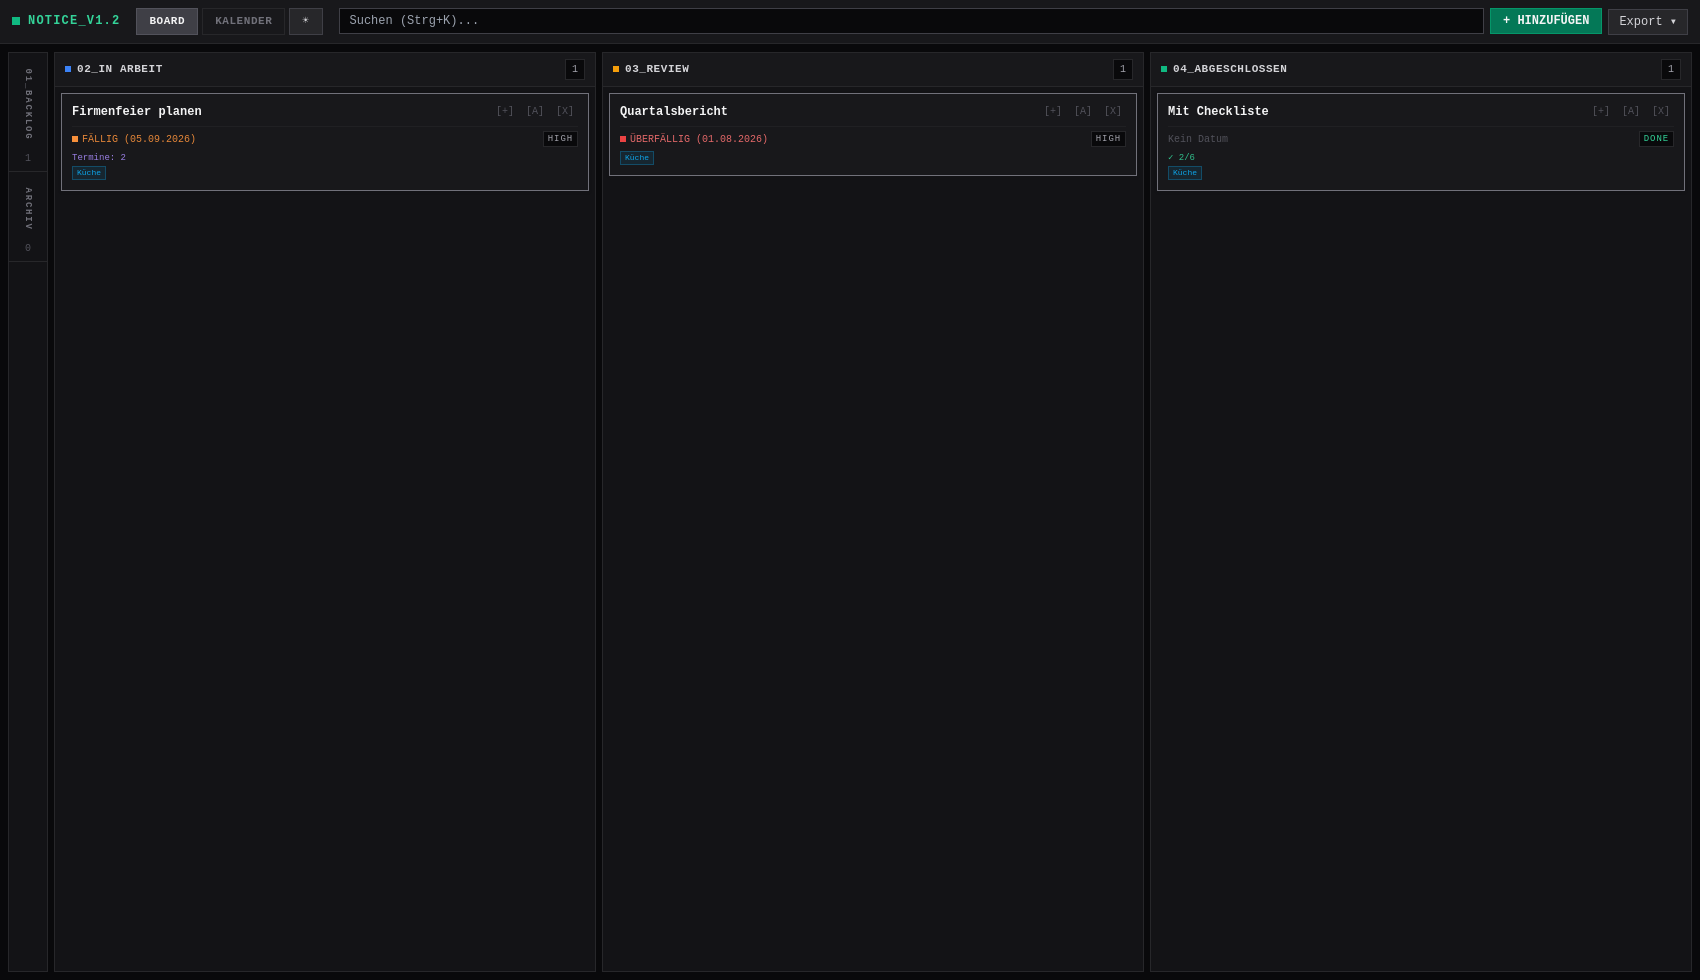
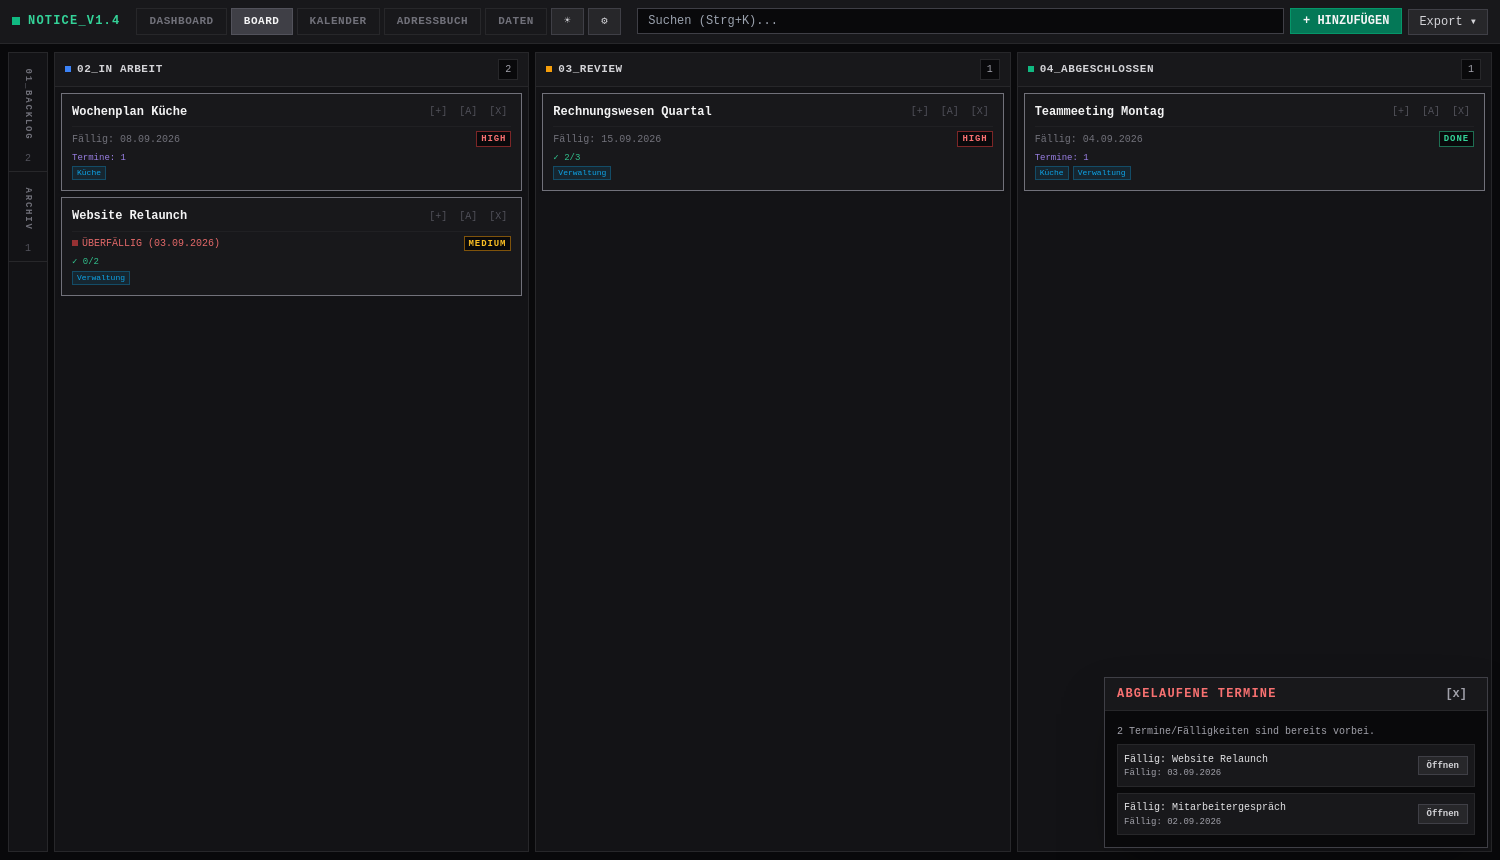
Bump version to V1.4 and refresh README and screenshots

diff --git a/src/main.rs b/src/main.rs
@@ -920,7 +920,7 @@ const FRONTEND_HTML: &str = r#"<!DOCTYPE html>
     <div id="app" class="h-screen flex flex-col" @click="closeContextMenu">
         <header class="bg-zinc-50 dark:bg-zinc-900 border-b border-zinc-200 dark:border-zinc-800 px-3 py-2 flex justify-between items-center shrink-0 gap-4">
             <h1 class="text-xs font-bold tracking-widest text-emerald-600 dark:text-emerald-400 flex items-center gap-2 shrink-0">
-                <span class="inline-block w-2 h-2 bg-emerald-500"></span> NOTICE_V1.3
+                <span class="inline-block w-2 h-2 bg-emerald-500"></span> NOTICE_V1.4
             </h1>
 
             <div class="flex gap-1 shrink-0 flex-wrap justify-center">

diff --git a/README.md b/README.md
@@ -1,5 +1,5 @@
 <p align="center">
-  <b><span style="color:#34d399">■</span> NOTICE_V1.2</b> — <i>Pro Kanban Notes</i>
+  <b><span style="color:#34d399">■</span> NOTICE_V1.4</b> — <i>Pro Kanban Notes</i>
 </p>
 
 <p align="center">
@@ -9,9 +9,13 @@
 
 ---
 
-## `// VIEWS` — Board & Calendar
+## `// VIEWS` — Dashboard, Board, Calendar, Address book
 
-Two views can be switched via the header bar (`BOARD` / `CALENDAR`).
+Several views can be switched via the header bar (`DASHBOARD` / `BOARD` / `KALENDER` / `ADRESSBUCH` / `DATEN`). The first opened view is the **Dashboard**; afterwards the chosen view is remembered.
+
+![Dashboard](screenshots/dashboard.png)
+
+**Dashboard** – default start view with statistics: today's tasks and upcoming appointments, overdue items, status & priority distribution, completed activity over the last 30 days, to-do/checklist progress and activity by department.
 
 ![Board view](screenshots/board.png)
 
@@ -20,6 +24,14 @@ Two views can be switched via the header bar (`BOARD` / `CALENDAR`).
 ![Calendar view (month)](screenshots/kalender.png)
 
 **Calendar** – Outlook-style view with `MONTH`, `WEEK` and `YEAR`. Cards with a due date appear as **blue** markers, booked **appointments** as **green**, overdue ones as **red**. Archived notes are hidden.
+
+![Address book](screenshots/addressbook.png)
+
+**Address book** (`contacts.db`) – full contact management with name, department, phone, e-mail and description. Searchable, and clicking a contact row opens an edit modal.
+
+![Data overview](screenshots/data.png)
+
+**Data overview** – central list of all departments (with note counts, deletable) and all contacts.
 
 ![Detail modal](screenshots/detail.png)
 
@@ -35,8 +47,12 @@ Two views can be switched via the header bar (`BOARD` / `CALENDAR`).
 - **Calendar** (`MONTH` / `WEEK` / `YEAR`) combines `due_date` (blue), appointments (green) and overdue (red).
 - **New-note form** (`Alt+N`): title, status, priority, due date, content (Markdown), **checklist/steps** and **appointments**.
 - **Detail modal** (double-click): all fields incl. **departments** and **appointments**, with an **edit/preview toggle**.
-- **Markdown** for the content, incl. **supported HTML colors** and **cross-linked notes** via `[[Title|Display name]]` (with autocomplete).
+- **Markdown** for the content, incl. **supported HTML colors** and **cross-linked notes**: `[[Title|Display name]]` links other notes (with autocomplete), `{{Name|Alias}}` links **contacts** from the address book (with autocomplete). Clicking a note link opens that note; clicking an address link jumps to the address book and highlights the contact.
+- **Dashboard** statistics overview (default view): today's tasks, overdue, upcoming appointments, status/priority distribution, completed activity chart, to-do progress and activity by department.
+- **Address book** (`contacts.db`): full CRUD for contacts (name, department, phone, e-mail, description), searchable, department autocomplete reuses existing departments, seeded with sample contacts on first start.
 - **Departments**: optional per note, freely creatable, **autocomplete** (most frequent first, case-insensitive deduplication). On cards the departments render as **inline wrapping badges** (single line, no emoji).
+- **Data overview** (`DATEN`): central list of all **departments** (with note counts) and **contacts**. Deleting a department removes it from every note and contact.
+- **Completed tracking**: notes store a `completed_at` date when moved to `done`/`archived` (cleared again when reactivated); it powers the Dashboard activity chart.
 - **Appointments**: any number per note, with start, optional time (`HH:MM`), optional end date and end time.
 - **Week view** is a 24-hour timeline with position/styleable event blocks; overlapping events are placed side by side in lanes; timed and all-day events are handled separately.
 - **Drag & Drop** between columns as well as for reordering within a column; notes can be dragged directly into the **archive**.
@@ -64,7 +80,7 @@ cargo run
 # → serves at http://127.0.0.1:8080
 ```
 
-On first start, `notice.db` (SQLite) is created automatically. Existing databases are migrated with `ALTER TABLE` (e.g. `departments`, `appointments`), existing data is preserved.
+On first start, `notice.db` (SQLite, notes) and `contacts.db` (SQLite, address book) are created automatically. Existing databases are migrated with `ALTER TABLE` (e.g. `departments`, `appointments`, `completed_at`), existing data is preserved.
 
 ---
 
@@ -77,8 +93,9 @@ On first start, `notice.db` (SQLite) is created automatically. Existing database
 | Open a note in the detail modal | Double-click a card |
 | Toggle edit / preview | Button `Edit` / `Preview` |
 | Save (in the modal) | `Ctrl+S` |
-| Escape | Closes the modal/form or autocomplete (removes the `[[` remnant) |
+| Escape | Closes the modal/form or autocomplete (removes the `[[` / `{{` remnant) |
 | Link a note | `[[` in the content, then pick with `↑↓`/`Enter` |
+| Link a contact | `{{` in the content, then pick with `↑↓`/`Enter` |
 
 ### Departments
 
@@ -90,6 +107,13 @@ On first start, `notice.db` (SQLite) is created automatically. Existing database
 
 - In form and modal you can create appointments with `Start`, optional `Time` (`HH:MM`), optional `End` (date) and `End time`.
 - Appointments appear as **green** calendar entries and in the card/modal list under "Appointments".
+
+### Address book / Contacts
+
+- Contacts live in a separate `contacts.db` database and are managed in the **ADRESSBUCH** view (`+ NEU` to add, click a row to edit, `[X]` to delete).
+- Each contact has a name, an optional department (with the same autocomplete as notes), phone, e-mail and description.
+- From within any note content you can link a contact with `{{Name}}` or `{{Name|Alias}}` – the rendered preview is clickable and jumps to the address book, highlighting the contact.
+- The `DATEN` view also lists all contacts and lets you delete them.
 
 ---
 
@@ -148,6 +172,16 @@ Example `POST /api/notes`:
 | Method | Path | Description |
 |---|---|---|
 | `GET` | `/api/departments` | `[{name, count}]`, sorted by frequency, case-insensitively deduplicated |
+| `POST` | `/api/departments/delete` | Body `{"name": …}` – deletes a department and removes it from every note and contact |
+
+### Contacts
+
+| Method | Path | Description |
+|---|---|---|
+| `GET` | `/api/contacts` | All contacts |
+| `POST` | `/api/contacts` | Create a contact |
+| `PUT` / `DELETE` | `/api/contacts/:id` | Update / delete a contact |
+| `GET` | `/api/contacts/search?q=…` | Search for the `{{` autocomplete |
 
 ---
 
@@ -168,14 +202,27 @@ Table `notes`:
 | `departments` | TEXT | JSON array of departments |
 | `appointments` | TEXT | JSON array of appointments |
 | `sort_order` | INTEGER | Sort order within a column |
+| `completed_at` | TEXT | Date (YYYY-MM-DD) the note was moved to `done`/`archived` (null when active) |
+
+Table `contacts` (in `contacts.db`):
+
+| Column | Type | Meaning |
+|---|---|---|
+| `id` | INTEGER (PK) | Auto ID |
+| `name` | TEXT | Full name |
+| `department` | TEXT | Optional department |
+| `phone` | TEXT | Optional phone number |
+| `email` | TEXT | Optional e-mail address |
+| `description` | TEXT | Optional notes |
 
 ---
 
 ## `// PROJECT STRUCTURE`
 
 - `src/main.rs` – the whole app (Rust backend, database setup, embedded HTML/JS frontend).
-- `notice.db` – SQLite database, created at runtime (in `.gitignore`).
-- `screenshots/` – screenshots of the UI (board, calendar, detail modal).
+- `notice.db` – SQLite database for notes, created at runtime (in `.gitignore`).
+- `contacts.db` – SQLite database for the address book, created at runtime (in `.gitignore`).
+- `screenshots/` – screenshots of the UI (dashboard, board, calendar, address book, data, detail modal).
 - `AGENTS.md` – extra notes for development assistants.
 
 ---
